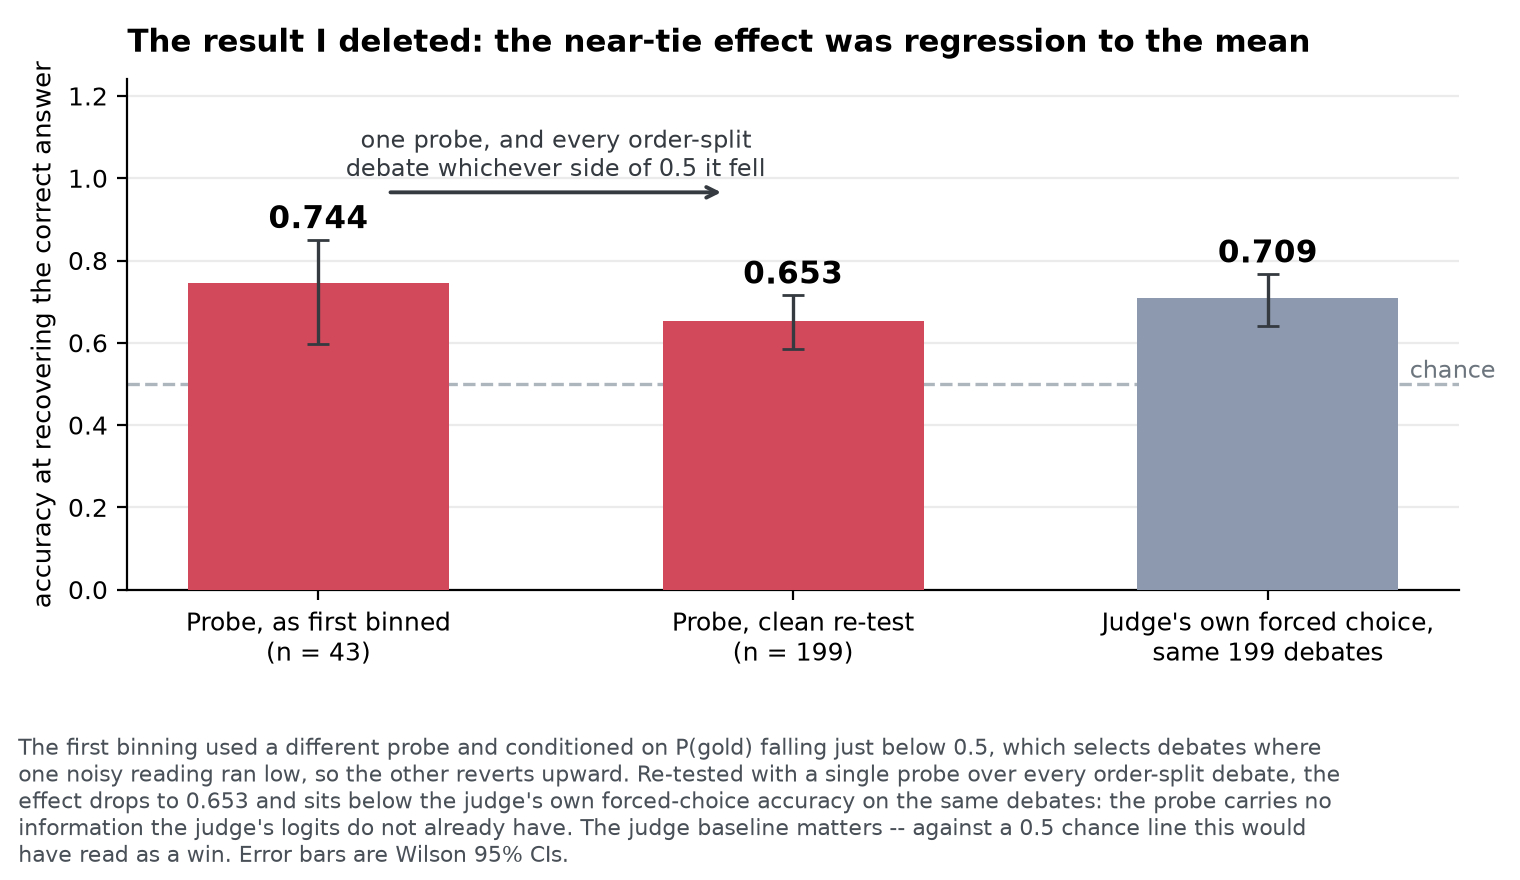
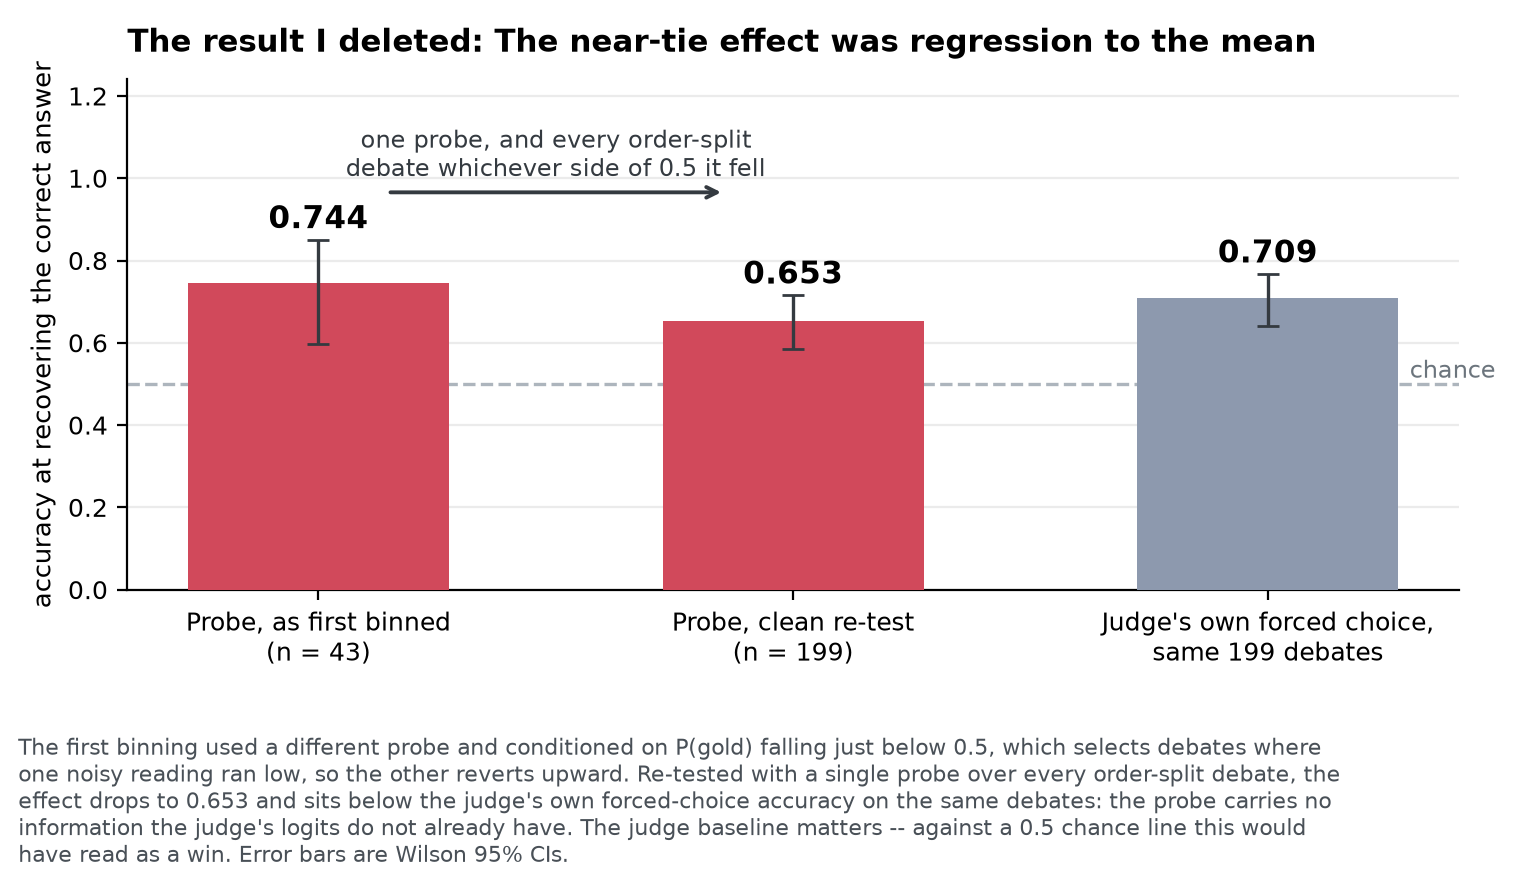
Capitalise the figure titles after the colon
Applied to all four rather than Q0 alone, so the set stays consistent. fig2's
clause starts with a numeral and has no case to change.

Also drops the title wrap width to 10 chars/inch. The extra capital pushed fig1's
first line flush against the canvas edge with no margin, which would have clipped
at a different dpi.

Changed region(s): [[0.3092, 0.0307, 0.8658, 0.0614]]

diff --git a/scripts/make_figures.py b/scripts/make_figures.py
@@ -107,7 +107,7 @@ def finish(fig, ax, out: Path, dpi: int, title: str, caption: str) -> None:
     # regular 8pt. One shared width silently clips the title, which is how the first
     # pass lost the last two words of every heading.
     w = fig.get_figwidth()
-    ax.set_title("\n".join(textwrap.wrap(title, int(w * 11.5))),
+    ax.set_title("\n".join(textwrap.wrap(title, int(w * 10.0))),
                  loc="left", fontweight="bold", pad=10)
     wrapped = textwrap.fill(caption, int(w * 16))
     # Reserve real space for the caption: an 8pt line is ~0.15in, so scale by the
@@ -178,7 +178,7 @@ def fig_q0(verdicts: list[dict], out: Path, dpi: int) -> None:
     ax.legend(frameon=False, loc="upper right", ncols=2)
     ax.grid(axis="y", alpha=0.25, zorder=0)
     finish(fig, ax, out, dpi,
-           "Q0: covert collusion raises the judge's error rate, and more reliably "
+           "Q0: Covert collusion raises the judge's error rate, and more reliably "
            "destroys its verdict entirely",
            f"Qwen2.5-32B-Instruct judge, {h['n']} honest vs {c['n']} colluded "
            "QuALITY debates, every debate judged in both presentation orders. "
@@ -281,7 +281,7 @@ def fig_killed(forced: dict, cross: dict, out: Path, dpi: int) -> None:
     ax.set_ylim(0, 1.24)
     ax.grid(axis="y", alpha=0.25, zorder=0)
     finish(fig, ax, out, dpi,
-           "The result I deleted: the near-tie effect was regression to the mean",
+           "The result I deleted: The near-tie effect was regression to the mean",
            "The first binning used a different probe and conditioned on P(gold) "
            "falling just below 0.5, which selects debates where one noisy reading ran "
            "low, so the other reverts upward. Re-tested with a single probe over "
@@ -327,7 +327,7 @@ def fig_q2(p5: dict, out: Path, dpi: int) -> None:
     ax.legend(frameon=False, loc="upper center", ncols=1)
     ax.grid(axis="y", alpha=0.25, zorder=0)
     finish(fig, ax, out, dpi,
-           "Q2: flat on both arms, so the override is complete by round 1 and it is "
+           "Q2: Flat on both arms, so the override is complete by round 1 and it is "
            "not context length",
            f"One probe, model layer {p5['model_layer']}, fit on the full transcripts "
            "of the training split and applied at each truncation -- not refitted per "
